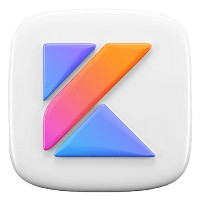
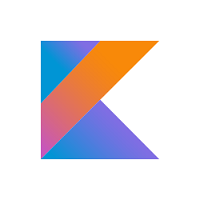
update img

diff --git a/src/sections/Projects/Projects.jsx b/src/sections/Projects/Projects.jsx
@@ -20,6 +20,12 @@ function Projects() {
           p="Spring + MySql"
         />
         <ProjectCard
+          src={kotlin}
+          link="https://github.com/hada97/kotlin-api"
+          h3="Rest API"
+          p="API Kotlin"
+        />
+        <ProjectCard
           src={poke}
           link="https://github.com/hada97/pokedex"
           h3="Pokedex JS"
@@ -41,13 +47,7 @@ function Projects() {
           src={apijava}
           link="https://github.com/hada97/alurafood"
           h3="Rest API"
-          p="Spring + MS"
-        />
-         <ProjectCard
-          src={kotlin}
-          link=""
-          h3="Rest API"
-          p="API Kotlin"
+          p="Spring Microservices"
         />
       </div>
     </section>

diff --git a/src/sections/Hero/Hero.jsx b/src/sections/Hero/Hero.jsx
@@ -42,9 +42,7 @@ function Hero() {
         </h1>
         <h2>Backend Developer</h2>
         <span>
-          <a href="https://wa.me/5511972694099" target="_blank">
-            <img src={twitterIcon} alt="whatsapp icon" />
-          </a>
+          
           <a href="https://github.com/hada97" target="_blank">
             <img src={githubIcon} alt="Github icon" />
           </a>
